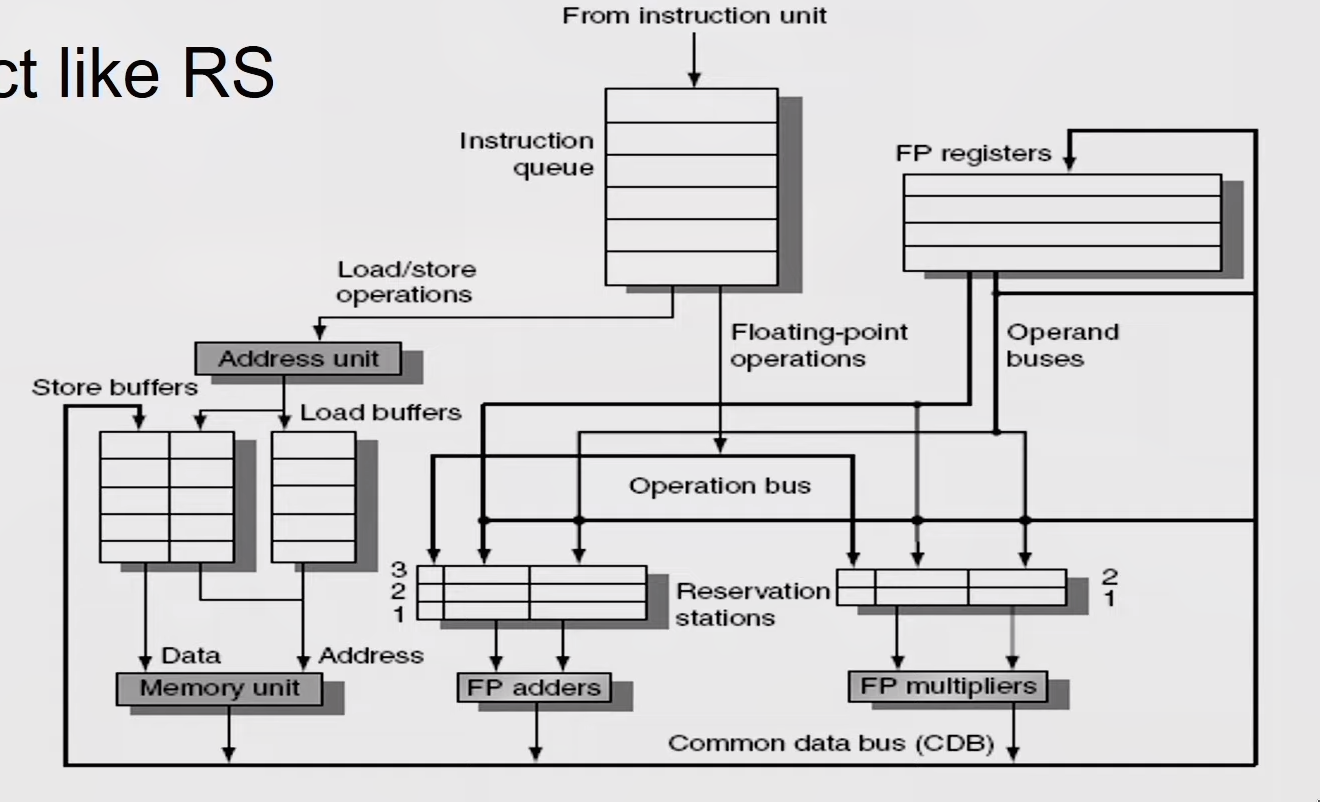
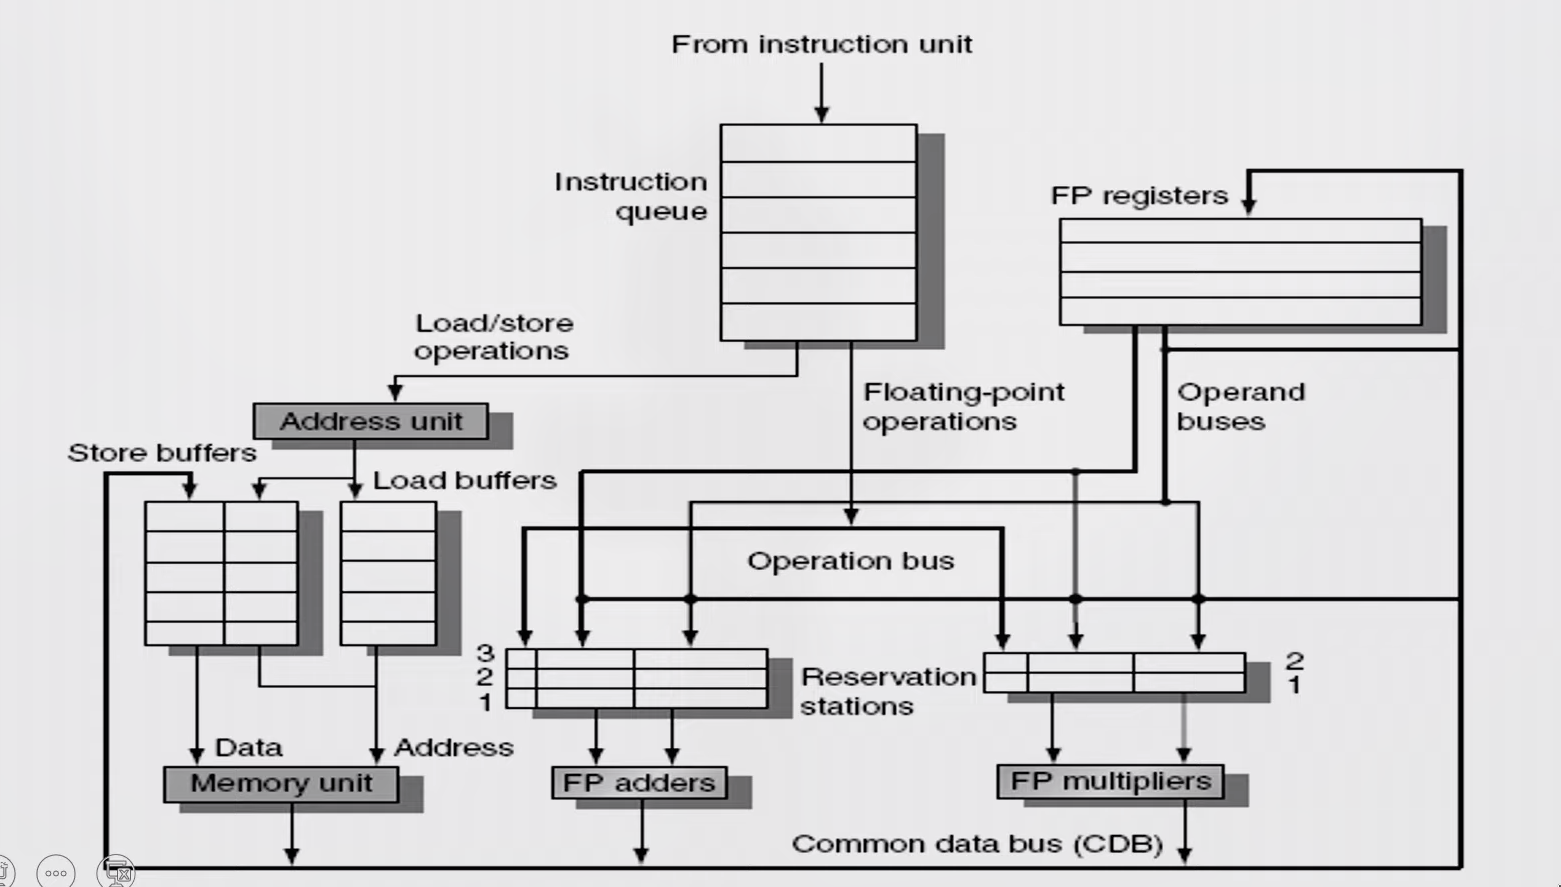
added tomasulo algorithm

Changed region(s): [[0.0, 0.0, 0.9629, 1.0], [0.0, 0.0623, 0.2174, 0.1247], [0.9939, 0.9975, 1.0, 1.0]]

diff --git a/mdbook/src/computer-architecture/6.compiler-techniques.md b/mdbook/src/computer-architecture/6.compiler-techniques.md
@@ -211,9 +211,11 @@ MUL.D F6,F10,F8
 - Pending instructions designate the RS that will provide input
 - Result values broadcast on common data bus (CDB)
 
-## Tomasulo's Algorithm
+# Tomasulo's Algorithm
 - Load and store buffers contain data and addresses.
 - They also act as RS
+
+![Tomasulo’s algorithm](./images/tomasulo-algorithm.png) 
 
 ### Issue 
 - Get next instruction from FIFO queue
@@ -236,6 +238,43 @@ MUL.D F6,F10,F8
 - Stores must wait until address and value are received
 
 
+- Instructions are fetched one by one and decoded to find the type of operation
+  and the source of operands
+- Register Status Indicator indicates whether the latest value of the register
+  is in the reg file or currently being computed by some execution unit and if
+  so, it states the execution unit number
+- If all operands available then operation proceeds in the allotted execution
+  unit, else, it waits in the reservation station of the allotted execution
+  unit pinging the CDB
+- Every Execution unit writes the result along with the unit number on to the
+  CDB which is forwarded to all reservation stations, Reg-file and Memory
+
+![Tomasulo’s algorithm](./images/tomasulo-algorythm-1.png) 
+
+## Reservation Station
+- Each reservation station has seven fields.
+- {Op, Qj, Qk, Vj, Vk, A, Busy}
+
+- 1. Op -The operation to perform on source operands S1 and S2.
+- 2,3. Qj, Qk -The reservation stations that will produce the corresponding
+  source operand; a value of zero indicates that the source operand is already
+  available in Vj or VK.
+- 4,5. Vj, Vk —The value of the source operands.
+  Only one of the V field or the Q field is valid for each operand. For loads,
+  the VK field is used to hold the offset field.
+- 6. A -Used to hold information for the memory address calculation for a load
+   or store. Initially, the immediate field of the instruction is stored
+   here; after the address calculation, the effective address is stored here.
+- 7. Busy -Indicates that this reservation station and its accompanying
+  functional unit are occupied.
+
+## Reservation Station Indicator
+- The register file has a field, Qi: (RSI)
+- Qi-The number of the reservation station that contains the operation whose
+  result should be stored into this register.
+- If the value of Qi = 0 no currently active instruction is computing a result
+  destined for this register, meaning that the value is simply the register
+  contents.
 
 
 
